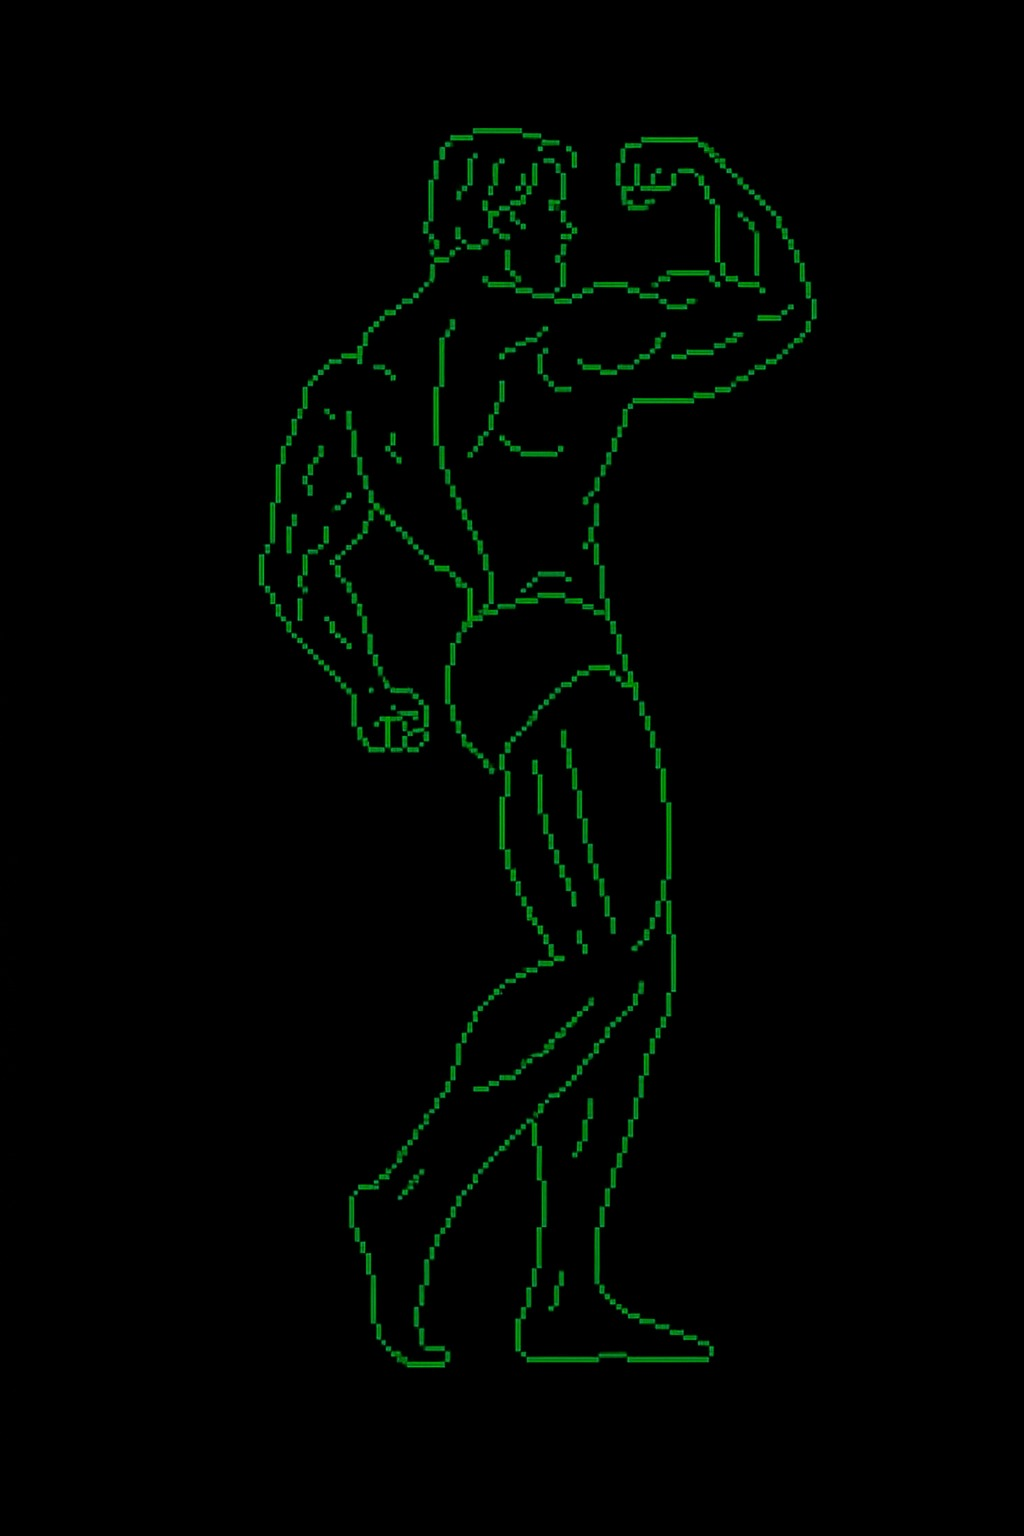
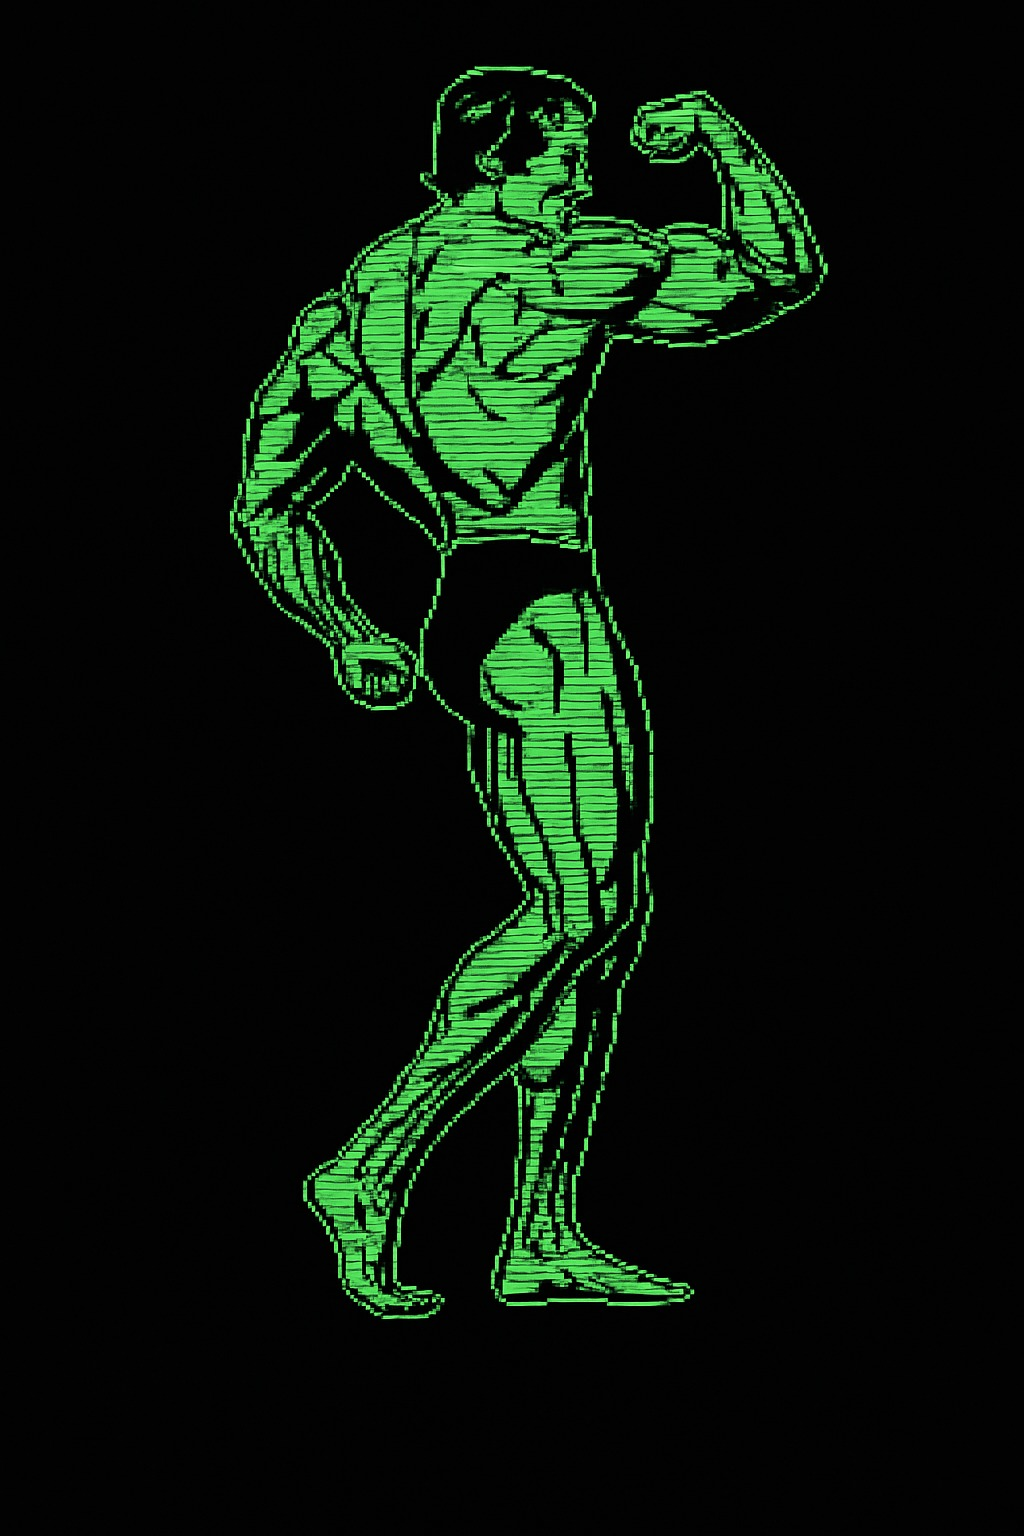
Added multiple splash screen at app startup

Changed region(s): [[0.2188, 0.0312, 0.8125, 0.9062]]

diff --git a/components/NativeSplashRandomizer.tsx b/components/NativeSplashRandomizer.tsx
@@ -1,0 +1,68 @@
+import React, { useState, useEffect } from 'react';
+import { View, Image, StyleSheet, Animated } from 'react-native';
+
+const SPLASH_IMAGES = [
+  require('../app/assets/splash.png'),
+  require('../app/assets/splash2.png'),
+];
+
+interface NativeSplashRandomizerProps {
+  onFinish: () => void;
+  duration?: number;
+}
+
+export default function NativeSplashRandomizer({ onFinish, duration = 2000 }: NativeSplashRandomizerProps) {
+  const [currentSplash] = useState(() => {
+    // Randomly select a splash image
+    const randomIndex = Math.floor(Math.random() * SPLASH_IMAGES.length);
+    return SPLASH_IMAGES[randomIndex];
+  });
+
+  const fadeAnim = useState(new Animated.Value(0))[0];
+
+  useEffect(() => {
+    // Fade in animation
+    Animated.timing(fadeAnim, {
+      toValue: 1,
+      duration: 300,
+      useNativeDriver: true,
+    }).start();
+
+    // Auto finish after duration
+    const timer = setTimeout(() => {
+      // Fade out animation
+      Animated.timing(fadeAnim, {
+        toValue: 0,
+        duration: 300,
+        useNativeDriver: true,
+      }).start(() => {
+        onFinish();
+      });
+    }, duration - 300); // Subtract fade out duration
+
+    return () => clearTimeout(timer);
+  }, [fadeAnim, duration, onFinish]);
+
+  return (
+    <Animated.View style={[styles.container, { opacity: fadeAnim }]}>
+      <Image
+        source={currentSplash}
+        style={styles.splashImage}
+        resizeMode="cover"
+      />
+    </Animated.View>
+  );
+}
+
+const styles = StyleSheet.create({
+  container: {
+    flex: 1,
+    backgroundColor: '#000000',
+    justifyContent: 'center',
+    alignItems: 'center',
+  },
+  splashImage: {
+    width: '100%',
+    height: '100%',
+  },
+});

diff --git a/app/_layout.tsx b/app/_layout.tsx
@@ -13,6 +13,7 @@ import { initializeDatabase, useDatabaseMigrations } from '../db/client';
 import AppLayout from '../components/AppLayout';
 import BackgroundWorkoutPersistence from '../components/BackgroundWorkoutPersistence';
 import RandomSplashScreen from '../components/RandomSplashScreen';
+import NativeSplashRandomizer from '../components/NativeSplashRandomizer';
 
 // Keep the splash screen visible while we fetch resources
 SplashScreen.preventAutoHideAsync();
@@ -33,6 +34,9 @@ export default function Layout() {
   
   // State to control our custom random splash screen
   const [showRandomSplash, setShowRandomSplash] = useState(true);
+  
+  // State to control native splash randomizer
+  const [showNativeSplash, setShowNativeSplash] = useState(true);
 
   // Start 3-second timer when component mounts
   useEffect(() => {
@@ -54,6 +58,16 @@ export default function Layout() {
       console.error('Database migration failed:', migrationsError);
     }
   }, [fontsLoaded, migrationsSuccess, migrationsError, splashTimeElapsed]);
+
+  // Show native splash randomizer first
+  if (showNativeSplash) {
+    return (
+      <NativeSplashRandomizer
+        onFinish={() => setShowNativeSplash(false)}
+        duration={1500}
+      />
+    );
+  }
 
   // Show random splash screen if everything is ready but we haven't finished the custom splash
   if (fontsLoaded && migrationsSuccess && splashTimeElapsed && showRandomSplash) {

diff --git a/components/RandomSplashScreen.tsx b/components/RandomSplashScreen.tsx
@@ -13,7 +13,7 @@ const SPLASH_SCREENS = [
     id: 2,
     title: 'IRON.FORGE',
     subtitle: 'MUSCLE MEMORY SYSTEM',
-    image: require('../app/assets/splash2.png'),
+    image: require('../app/assets/bodybuilder.jpeg'),
   },
   {
     id: 3,
@@ -25,21 +25,8 @@ const SPLASH_SCREENS = [
     id: 4,
     title: 'LIFT.PROTOCOL',
     subtitle: 'BIOMECHANICAL ENHANCEMENT',
-    image: require('../app/assets/splash2.png'),
-  },
-  {
-    id: 5,
-    title: 'MUSCLE.CORE',
-    subtitle: 'NEURAL ADAPTATION MATRIX',
     image: require('../app/assets/bodybuilder.jpeg'),
   },
-  {
-    id: 6,
-    title: 'POWER.GRID',
-    subtitle: 'KINETIC FORCE AMPLIFIER',
-    image: require('../app/assets/splash2.png'),
-  },
-  // You can add more splash variations here with either image
 ];
 
 interface RandomSplashScreenProps {
@@ -85,7 +72,7 @@ export default function RandomSplashScreen({ onFinish, duration = 2000 }: Random
       <View style={styles.statusHeader}>
         <View style={styles.statusRow}>
           <View style={styles.statusIndicatorRed} />
-          <Text style={styles.statusTextRed}>SYSTEM ONLINE</Text>
+          <Text style={styles.statusTextRed}>SYSTEM OFFLINE</Text>
         </View>
       </View>
 

diff --git a/app/index.tsx b/app/index.tsx
@@ -31,15 +31,6 @@ export default function HomeScreen() {
         <Text style={styles.title}>GYM.TRACKER</Text>
       </View>
 
-      {/* Center Image */}
-      <View style={styles.imageContainer}>
-        <Image
-          source={require('./assets/bodybuilder.jpeg')}
-          style={styles.centerImage}
-          resizeMode="contain"
-        />
-      </View>
-
       {/* Action Buttons at Bottom */}
       <View style={styles.bottomActionSection}>
         <TouchableOpacity style={styles.startButton} onPress={() => router.push('/new')}>
@@ -109,17 +100,6 @@ const styles = StyleSheet.create({
     letterSpacing: 1.5,
     marginTop: 8,
     textAlign: 'center',
-  },
-  imageContainer: {
-    flex: 1,
-    justifyContent: 'center',
-    alignItems: 'center',
-    marginVertical: 20,
-  },
-  centerImage: {
-    width: 350,
-    height: 350,
-    opacity: 0.8,
   },
   subtitle: {
     color: theme.colors.neonDim,
